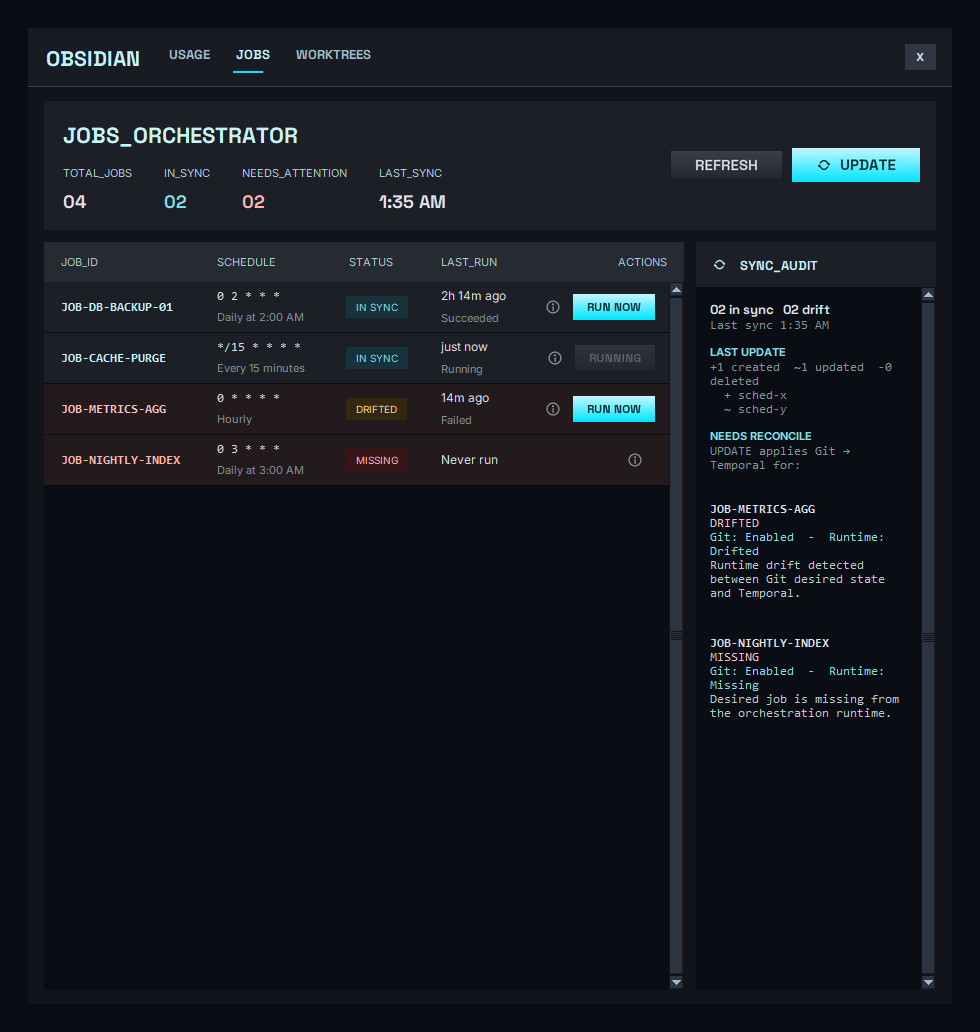
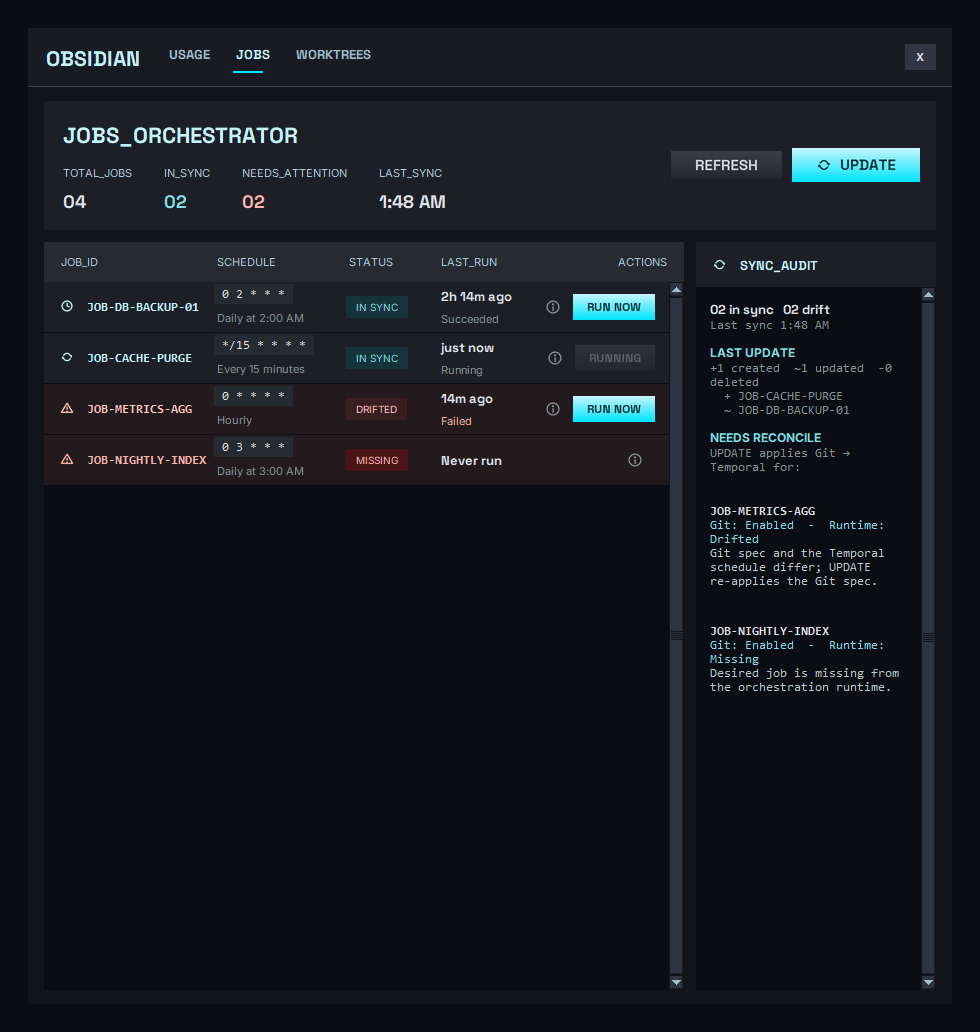
task-0016: jobs fidelity re-review fixes (in-palette drift + concrete audit)
- DRIFTED chip back to the error-red family (amber is not in the palette and
  clashed with the red DRIFTED text in the audit panel); DRIFTED softer red,
  MISSING/BLOCKED harder red - distinct by shade + label.
- SYNC_AUDIT "LAST UPDATE" maps changed schedule ids -> owning job names
  (schedule_owner_map), same namespace as the rest of the panel.
- Drift reason less circular: "Git spec and the Temporal schedule differ;
  UPDATE re-applies the Git spec." instead of restating "drift detected".
- Minors: leading per-row status glyph (clock/sync/warning); cron pill + human
  cadence; LAST_RUN in Space Grotesk with a red "Failed" sub-line; dropped the
  redundant audit drift line; audit section headers -> -12. New glyphs clock, warning.

Full unit suite green (198).

diff --git a/app/codex_dashboard/ui.py b/app/codex_dashboard/ui.py
@@ -42,6 +42,7 @@ from .jobs_backend import (
     job_is_running,
     jobs_attention_jobs,
     jobs_backend_error_snapshot,
+    schedule_owner_map,
     start_job_run,
     summarize_apply_report,
     sync_jobs_snapshot,
@@ -1052,7 +1053,7 @@ class DashboardApp:
         audit_scroll.configure(command=self.jobs_audit_text.yview)
         self.jobs_audit_text.pack(side="left", fill="both", expand=True)
         self.jobs_audit_text.tag_configure("headline", foreground="#dfe2eb", font=("Space Grotesk", -13, "bold"))
-        self.jobs_audit_text.tag_configure("section", foreground="#7fdfe8", font=("Inter", -11, "bold"), spacing1=12)
+        self.jobs_audit_text.tag_configure("section", foreground="#7fdfe8", font=("Inter", -12, "bold"), spacing1=12)
         self.jobs_audit_text.tag_configure("muted", foreground="#849396")
         self.jobs_audit_text.tag_configure("ok", foreground="#7fdfe8")
         self.jobs_audit_text.tag_configure("jobid", foreground="#dfe2eb", font=("Consolas", -12, "bold"), spacing1=8)
@@ -2175,11 +2176,12 @@ class DashboardApp:
                 f"+{changes['created']} created  ~{changes['updated']} updated  -{changes['deleted']} deleted\n",
                 "muted",
             )
+            owner = schedule_owner_map(snapshot)
             for field, sign in (("created_schedule_ids", "+"), ("updated_schedule_ids", "~"), ("deleted_schedule_ids", "-")):
                 ids = report.get(field)
                 if isinstance(ids, list):
                     for schedule_id in ids[:8]:
-                        text.insert("end", f"  {sign} {schedule_id}\n", "muted")
+                        text.insert("end", f"  {sign} {owner.get(str(schedule_id), str(schedule_id))}\n", "muted")
 
         attention_jobs = jobs_attention_jobs(snapshot)
         if not attention_jobs:
@@ -2190,7 +2192,6 @@ class DashboardApp:
             text.insert("end", "UPDATE applies Git → Temporal for:\n", "muted")
             for job in attention_jobs:
                 text.insert("end", f"\n{job.get('job_id', '')}\n", "jobid")
-                text.insert("end", f"{str(job.get('observed_label', '')).upper()}\n", "drift")
                 desired = str(job.get("desired_label", "")).strip()
                 observed = str(job.get("observed_label", "")).strip()
                 if desired:
@@ -2245,16 +2246,20 @@ class DashboardApp:
 
         id_content = cell(widths["JOB_ID"])
         id_color = "#ffb4ab" if status in ("blocked", "missing") else ("#ffc1bd" if attention else "#c3f5ff")
+        icon_kind = "sync" if job_is_running(job) else ("warning" if attention else "clock")
+        id_icon = self._icon_photo(icon_kind, id_color, 14)
+        if id_icon is not None:
+            tk.Label(id_content, image=id_icon, bg=row_bg).pack(side="left", padx=(0, 8))
         tk.Label(id_content, text=str(job.get("job_id", "")), bg=row_bg, fg=id_color,
-                 font=("Consolas", -13, "bold"), anchor="w").pack(anchor="w")
+                 font=("Consolas", -13, "bold")).pack(side="left")
 
         sched_primary, sched_detail = job_schedule_display(job)
         sched_content = cell(widths["SCHEDULE"])
-        tk.Label(sched_content, text=sched_primary or "—", bg=row_bg, fg="#dfe2eb",
-                 font=("Consolas", -12), anchor="w").pack(anchor="w")
+        tk.Label(sched_content, text=sched_primary or "—", bg="#262a31", fg="#dfe2eb",
+                 font=("Consolas", -12), padx=6, pady=1).pack(anchor="w")
         if sched_detail:
             tk.Label(sched_content, text=sched_detail, bg=row_bg, fg="#849396",
-                     font=("Inter", -11), anchor="w").pack(anchor="w")
+                     font=("Inter", -11), anchor="w").pack(anchor="w", pady=(3, 0))
 
         status_content = cell(widths["STATUS"])
         chip_label, chip_bg, chip_fg = job_status_chip(status)
@@ -2264,9 +2269,10 @@ class DashboardApp:
         last_primary, last_detail = job_last_run_display(job)
         last_content = cell(widths["LAST_RUN"])
         tk.Label(last_content, text=last_primary, bg=row_bg, fg="#dfe2eb",
-                 font=("Inter", -12), anchor="w").pack(anchor="w")
+                 font=("Space Grotesk", -13, "bold"), anchor="w").pack(anchor="w")
         if last_detail:
-            tk.Label(last_content, text=last_detail, bg=row_bg, fg="#849396",
+            detail_color = "#ffb4ab" if "fail" in last_detail.lower() else "#849396"
+            tk.Label(last_content, text=last_detail, bg=row_bg, fg=detail_color,
                      font=("Inter", -11), anchor="w").pack(anchor="w")
 
         for widget in (row, inner, actions):

diff --git a/app/codex_dashboard/jobs_backend.py b/app/codex_dashboard/jobs_backend.py
@@ -160,8 +160,8 @@ def reason_text(
     if status == "drifted":
         note = _first_schedule_note(schedules)
         if note:
-            return f"Runtime drift detected. {note}"
-        return "Runtime drift detected between Git desired state and Temporal."
+            return f"Git spec and Temporal differ. {note}"
+        return "Git spec and the Temporal schedule differ; UPDATE re-applies the Git spec."
     if status == "disabled":
         return "Desired state is disabled."
 
@@ -281,9 +281,9 @@ JOB_STATUS_CHIPS = {
     # in-sync = cyan; drifted = amber/warning (diverged but present); missing/blocked = hard
     # error-red (absent / broken) — the two attention states are tellable apart by color.
     "in_sync": ("IN SYNC", "#16323a", "#7fdfe8"),
-    "drifted": ("DRIFTED", "#33280f", "#ffcf8f"),
-    "missing": ("MISSING", "#3a1417", "#ffb4ab"),
-    "blocked": ("BLOCKED", "#3a1417", "#ffb4ab"),
+    "drifted": ("DRIFTED", "#3a1f22", "#ffc1bd"),
+    "missing": ("MISSING", "#4a1418", "#ffb4ab"),
+    "blocked": ("BLOCKED", "#4a1418", "#ffb4ab"),
     "disabled": ("DISABLED", "#31353c", "#adcbda"),
     "unknown": ("UNKNOWN", "#31353c", "#8fa8bb"),
 }
@@ -295,6 +295,25 @@ def job_status_chip(status: str) -> tuple[str, str, str]:
     if key in JOB_STATUS_CHIPS:
         return JOB_STATUS_CHIPS[key]
     return (key.replace("_", " ").replace("-", " ").upper() or "UNKNOWN", "#31353c", "#8fa8bb")
+
+
+def schedule_owner_map(snapshot: dict[str, Any]) -> dict[str, str]:
+    """Map each schedule id to its owning job id, so the SYNC_AUDIT "last UPDATE" lines can
+    name jobs instead of raw schedule ids. Best-effort: only ids the backend exposes."""
+    mapping: dict[str, str] = {}
+    jobs = snapshot.get("jobs", [])
+    for job in jobs if isinstance(jobs, list) else []:
+        if not isinstance(job, dict):
+            continue
+        job_id = str(job.get("job_id") or "")
+        definition = job.get("definition", {})
+        definition = definition if isinstance(definition, dict) else {}
+        for schedule in _dict_list(definition.get("schedules")):
+            for key in ("id", "schedule_id", "schedule_handle", "name"):
+                schedule_id = _text(schedule.get(key))
+                if schedule_id:
+                    mapping[schedule_id] = job_id
+    return mapping
 
 
 def jobs_attention_jobs(snapshot: dict[str, Any]) -> list[dict[str, Any]]:

diff --git a/tests/test_jobs_display.py b/tests/test_jobs_display.py
@@ -11,6 +11,7 @@ from app.codex_dashboard.jobs_backend import (
     job_status_chip,
     jobs_attention_jobs,
     relative_time_label,
+    schedule_owner_map,
     summarize_apply_report,
 )
 
@@ -62,6 +63,16 @@ class JobsDisplayHelperTests(unittest.TestCase):
             {"job_id": "c", "status": "missing"},
         ]}
         self.assertEqual([j["job_id"] for j in jobs_attention_jobs(snapshot)], ["b", "c"])
+
+    def test_schedule_owner_map(self) -> None:
+        snapshot = {"jobs": [
+            {"job_id": "JOB-A", "definition": {"schedules": [{"id": "sched-a"}]}},
+            {"job_id": "JOB-B", "definition": {"schedules": [{"schedule_id": "sched-b"}]}},
+            {"job_id": "JOB-C", "definition": {"schedules": [{}]}},
+        ]}
+        mapping = schedule_owner_map(snapshot)
+        self.assertEqual(mapping.get("sched-a"), "JOB-A")
+        self.assertEqual(mapping.get("sched-b"), "JOB-B")
 
     def test_summarize_apply_report(self) -> None:
         report = {"created_schedule_ids": ["x"], "updated_schedule_ids": ["y", "z"], "deleted_schedule_ids": []}

diff --git a/app/codex_dashboard/glyphs.py b/app/codex_dashboard/glyphs.py
@@ -116,6 +116,15 @@ def render_glyph(kind: str, color: str, size: int, supersample: int = SUPERSAMPL
         draw.arc(box, 20, 160, fill=rgba, width=stroke)
         line([(0.70, 0.41), (0.82, 0.41), (0.79, 0.52)])
         line([(0.30, 0.59), (0.18, 0.59), (0.21, 0.48)])
+    elif kind == "clock":
+        circle(0.12, 0.12, 0.88, 0.88)
+        line([(0.5, 0.5), (0.5, 0.28)])
+        line([(0.5, 0.5), (0.68, 0.56)])
+    elif kind == "warning":
+        # a warning triangle with an exclamation mark.
+        line([(0.5, 0.16), (0.9, 0.82), (0.1, 0.82), (0.5, 0.16)])
+        line([(0.5, 0.4), (0.5, 0.62)])
+        draw.ellipse([pt(0.45, 0.69), pt(0.55, 0.79)], fill=rgba)
     else:
         raise ValueError(f"unknown glyph kind: {kind!r}")
 
@@ -193,4 +202,6 @@ GLYPH_KINDS = (
     "plus",
     "eject",
     "sync",
+    "clock",
+    "warning",
 )
